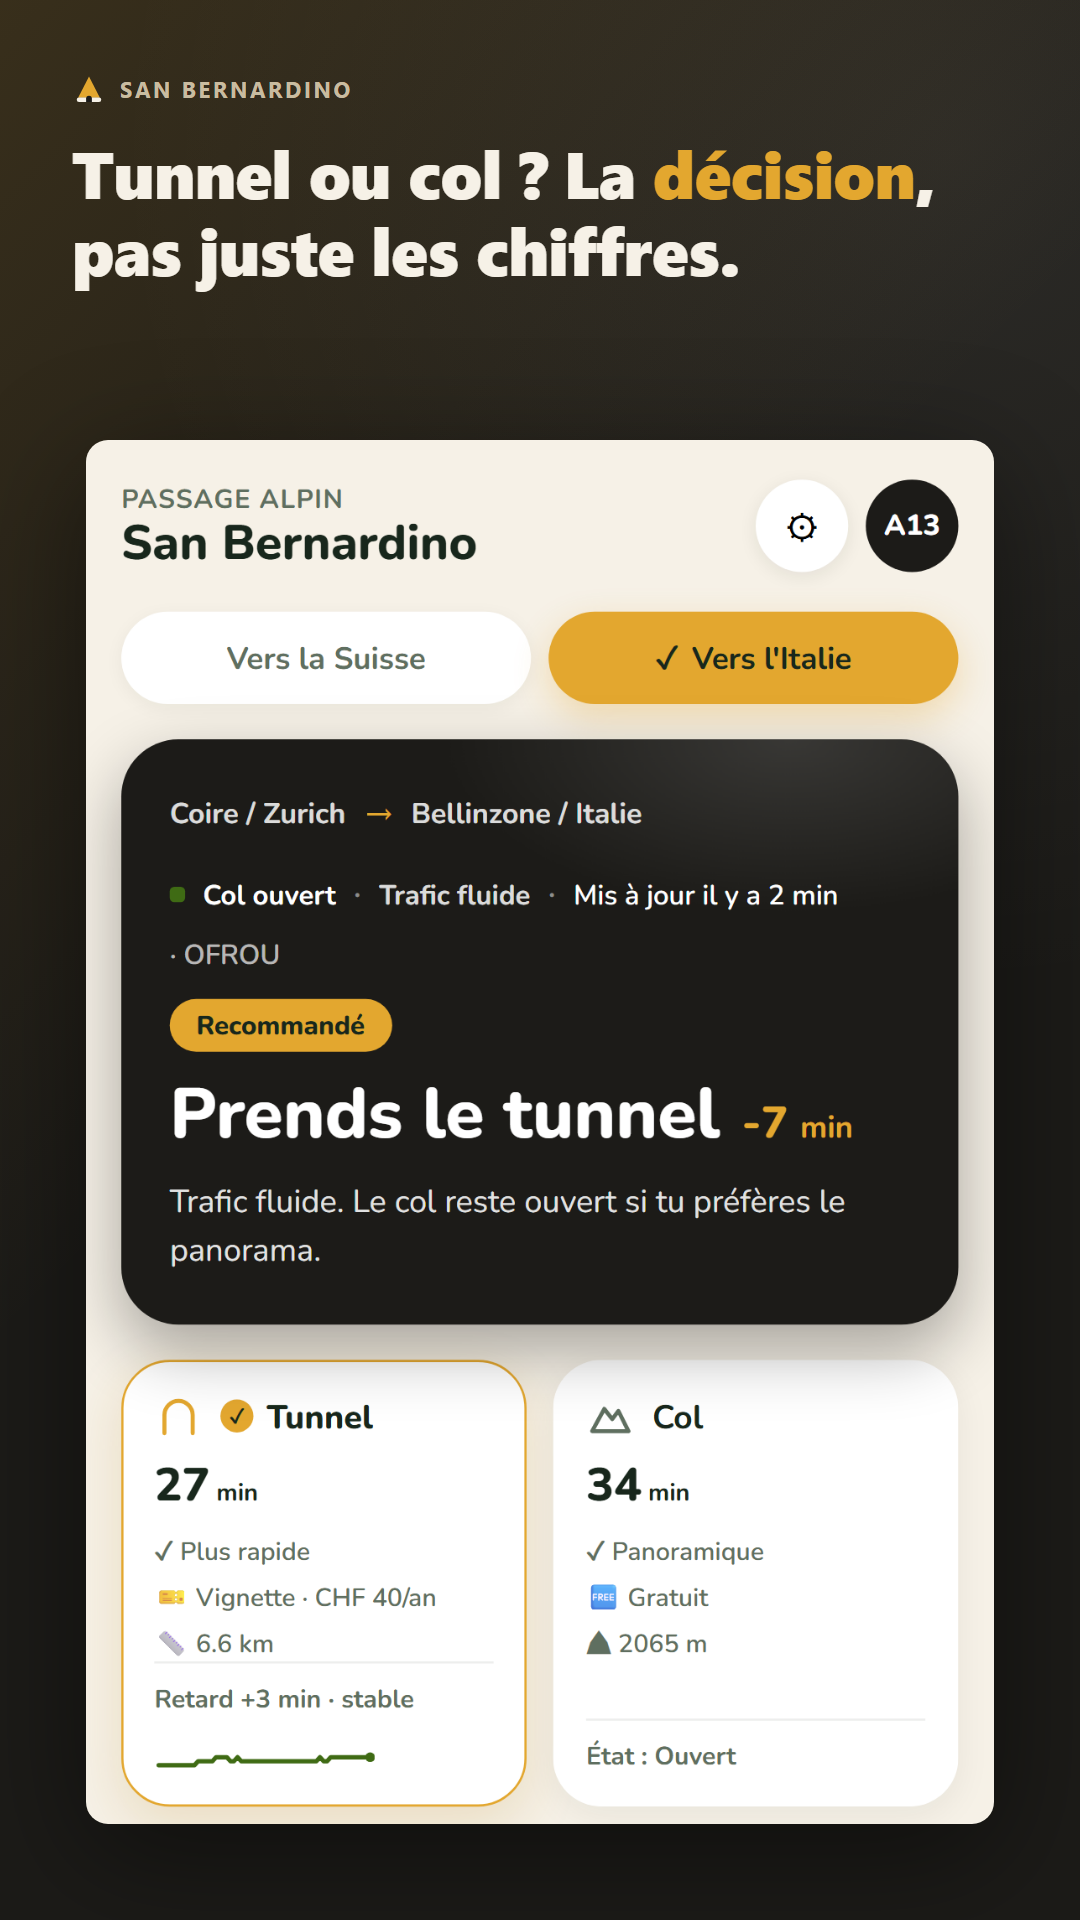
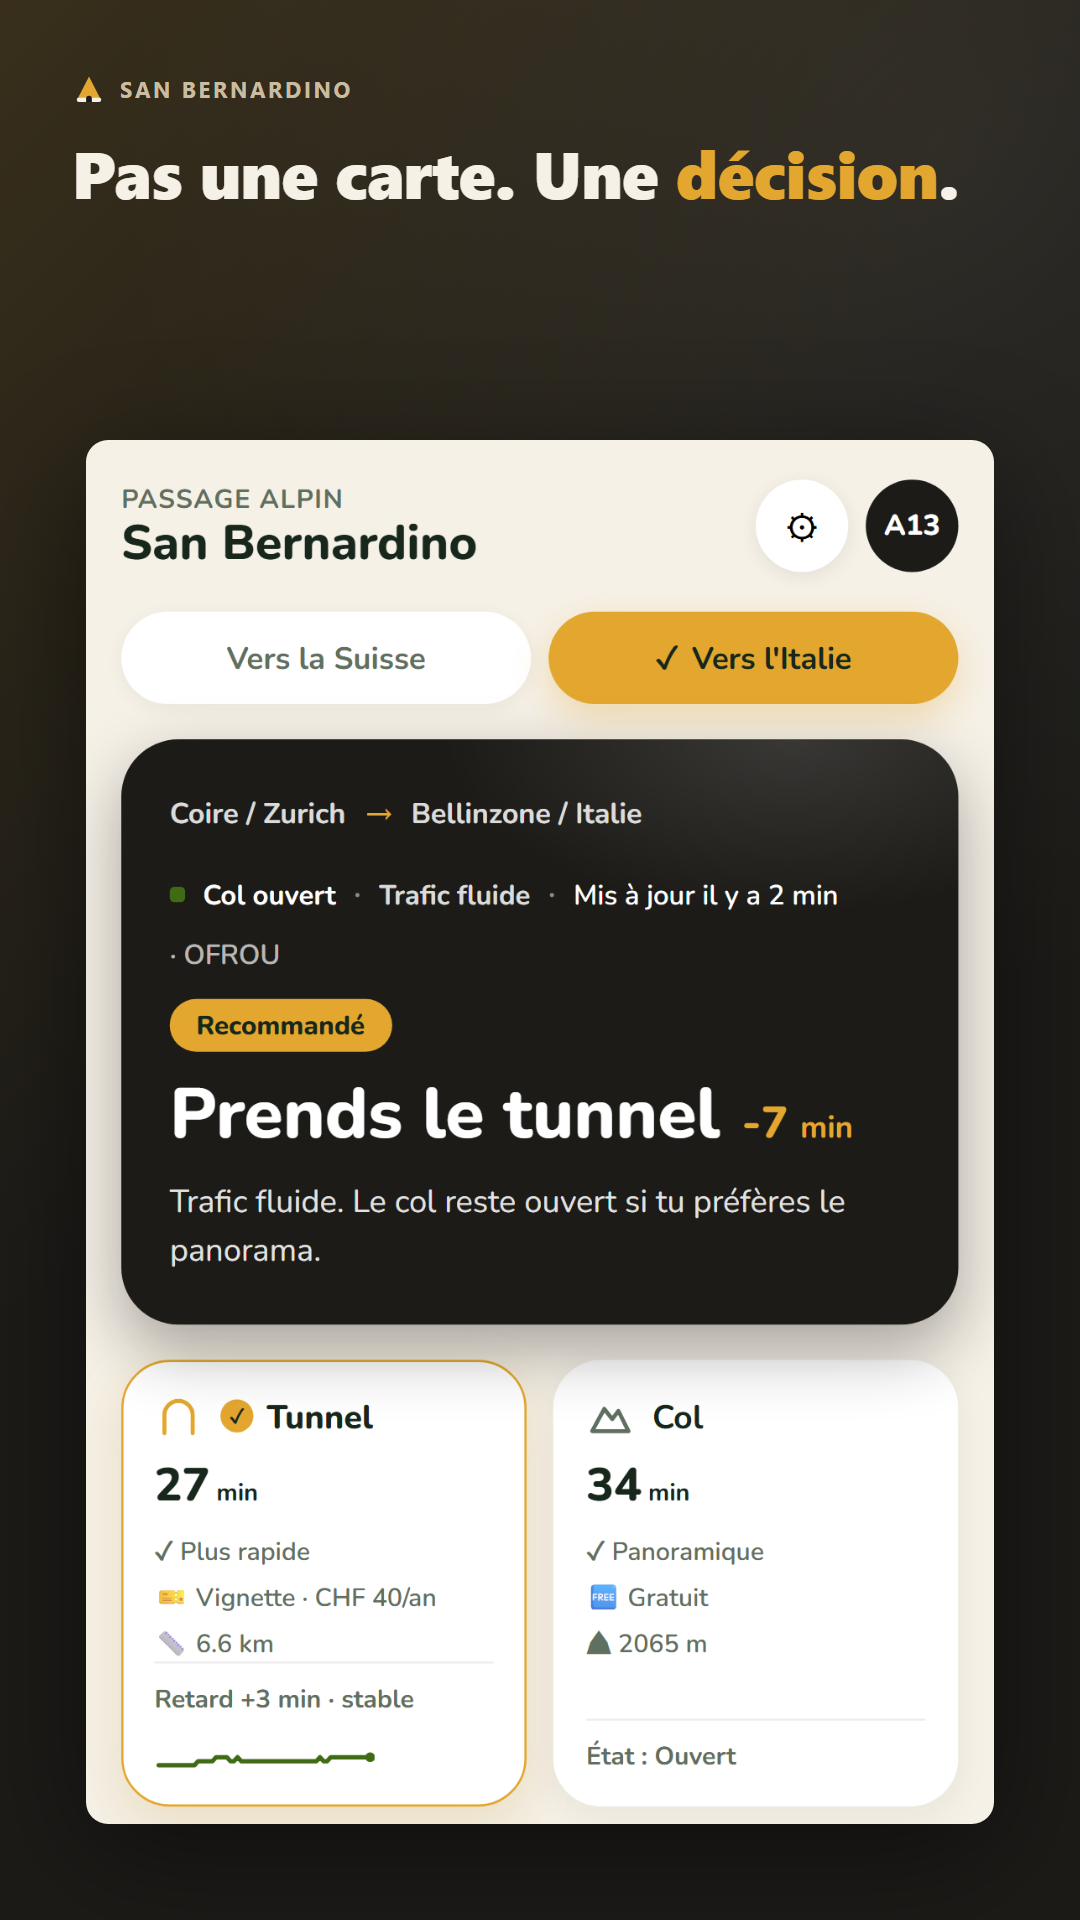
Sharpen Play Store positioning: verdict vs. data, not feature list
Google Maps/Waze/TCS give you data and leave you to interpret it;
this app gives a verdict using decision logic specific to this
corridor. Rewrote the short description and the opening hook of the
full description around that gap instead of a generic "best decision"
claim, and documented the positioning + 3 target personas (transalpine
commuter, occasional traveler, professional driver) in
play-store-listing.md so the reasoning survives past this session.

Promo screenshots renumbered/renamed to match the recommended carousel
order (verdict decision -> emotional payoff/alerts -> live data proof)
with headlines updated to match: "Pas une carte. Une décision." and
"Il surveille la route. Pas toi."

Runbook artifact updated to match (same URL).

Changed region(s): [[0.0611, 0.0625, 0.8861, 0.1562]]

diff --git a/docs/play-store-listing.md b/docs/play-store-listing.md
@@ -2,6 +2,12 @@
 
 Draft copy, ready to paste into Play Console. Character counts are Play's hard limits — re-check in Console before submitting, since exact rendering can shift by a character or two.
 
+## Positioning (why the copy reads this way)
+
+Google Maps, Waze, and TCS Trafic Info all give you **data** — travel times, road status — and leave you to interpret it. San Bernardino gives you a **verdict**, using decision logic specific to this one corridor (the col is only ever proposed when it's genuinely faster; the Gothard detour only when the time actually saved outweighs the extra distance). That's the differentiator the copy leans on: not "another traffic app," but the one that decides instead of just informing.
+
+Three audiences, not one: the **transalpine commuter** (Chur↔Bellinzona/Chiasso, cares about reliability and vignette cost), the **occasional traveler** (ski season, summer holidays, doesn't know the corridor, wants reassurance), and the **professional driver** (cares about closures/chain requirements being accurate, not approximate). The feature list covers all three; the opening hook targets the shared pain point (having to interpret data yourself) rather than any one persona specifically.
+
 ## App name (30 char max)
 
 ```
@@ -12,14 +18,14 @@ San Bernardino : Trafic A13
 ## Short description (80 char max)
 
 ```
-Tunnel, col ou Gothard ? La meilleure décision pour l'A13, en un coup d'œil.
+Fini d'hésiter au col : l'app décide tunnel, col ou Gothard à ta place.
 ```
-(77 characters)
+(76 characters — leads with the pain point (hesitating), not the feature)
 
 ## Full description (4000 char max)
 
 ```
-San Bernardino ne se contente pas d'afficher des chiffres de trafic : elle décide. Tunnel, col, ou déviation par le Gothard — l'app vous dit en une phrase quel itinéraire prendre sur l'axe A13, dans les deux sens (Suisse ↔ Italie).
+Google Maps te donne des temps de trajet. San Bernardino te donne une réponse : tunnel, col, ou Gothard — en une phrase, avec la raison.
 
 POURQUOI SAN BERNARDINO
 
@@ -47,7 +53,7 @@ L'application reste gratuite grâce à une publicité discrète, jamais affiché
 
 San Bernardino est un outil d'aide à la décision indépendant — toujours vérifier la signalisation routière officielle avant de s'engager sur l'axe.
 ```
-(~1,900 characters — well under the 4000 limit; room to expand with a "quoi de neuf" changelog per release)
+(~1,800 characters — well under the 4000 limit; room to expand with a "quoi de neuf" changelog per release)
 
 ## Category & content rating
 
@@ -74,13 +80,15 @@ Reflects what's *actually* collected today. Real AdMob is live (not test IDs) in
 
 ## Screenshots
 
-Re-captured 2026-08-17 against the real production build (real Google Routes + real OFROU road status, real Windy webcam, not mock data) at 1082×3029 — meets Play's phone screenshot requirements as-is. The previous set (2026-08-10) predated the mustard palette pivot and the map/webcam/card redesign and would have shown a completely different-looking app, so it's been fully replaced rather than kept alongside:
+Upload in this order — Play's carousel shows the first 2-3 without swiping, so the strongest value-prop images lead, plain UI screenshots follow as proof:
 
-- `screenshots/home-italie.png` — home screen, "vers l'Italie" direction: hero, comparison cards, map, live webcam
-- `screenshots/home-suisse.png` — home screen, "vers la Suisse" direction
+1. `store-assets/promo-screenshots/promo-1-verdict.png` — "Pas une carte. Une décision." — the differentiator, up front.
+2. `store-assets/promo-screenshots/promo-2-alerts.png` — "Il surveille la route. Pas toi." — the emotional payoff (you stop having to check yourself). Illustrated notification stack, not a real capture — the actual Settings screen has too little visible content (no system permission UI in a static screenshot) to sell this feature on its own.
+3. `store-assets/promo-screenshots/promo-3-map-webcam.png` — real map + live col webcam together — proof the data is genuinely live, not a static estimate.
+4. `screenshots/home-italie.png` — plain app screenshot, "vers l'Italie" direction, no caption overlay.
+5. `screenshots/home-suisse.png` — plain app screenshot, "vers la Suisse" direction.
 
-Still optional (not blocking submission — Play's minimum is 2 screenshots):
-- A Settings screenshot — the notifications permission flow can't be exercised headlessly (no real Capacitor push bridge in a browser), so capture this one directly on a device instead.
+All from the real production build (real Google Routes + real OFROU road status + real Windy webcam, not mock data), 1080×1920 for the promo set and 1082×3029 for the plain pair — both meet Play's phone screenshot requirements as-is. Re-captured/re-composed 2026-08-17; the original 2026-08-10 set predated the mustard palette pivot and the map/webcam/card redesign entirely.
 
 Already on disk, current (regenerated 2026-08-12 for the mustard palette):
 - Feature graphic: `docs/store-assets/feature-graphic-1024x500.png`
